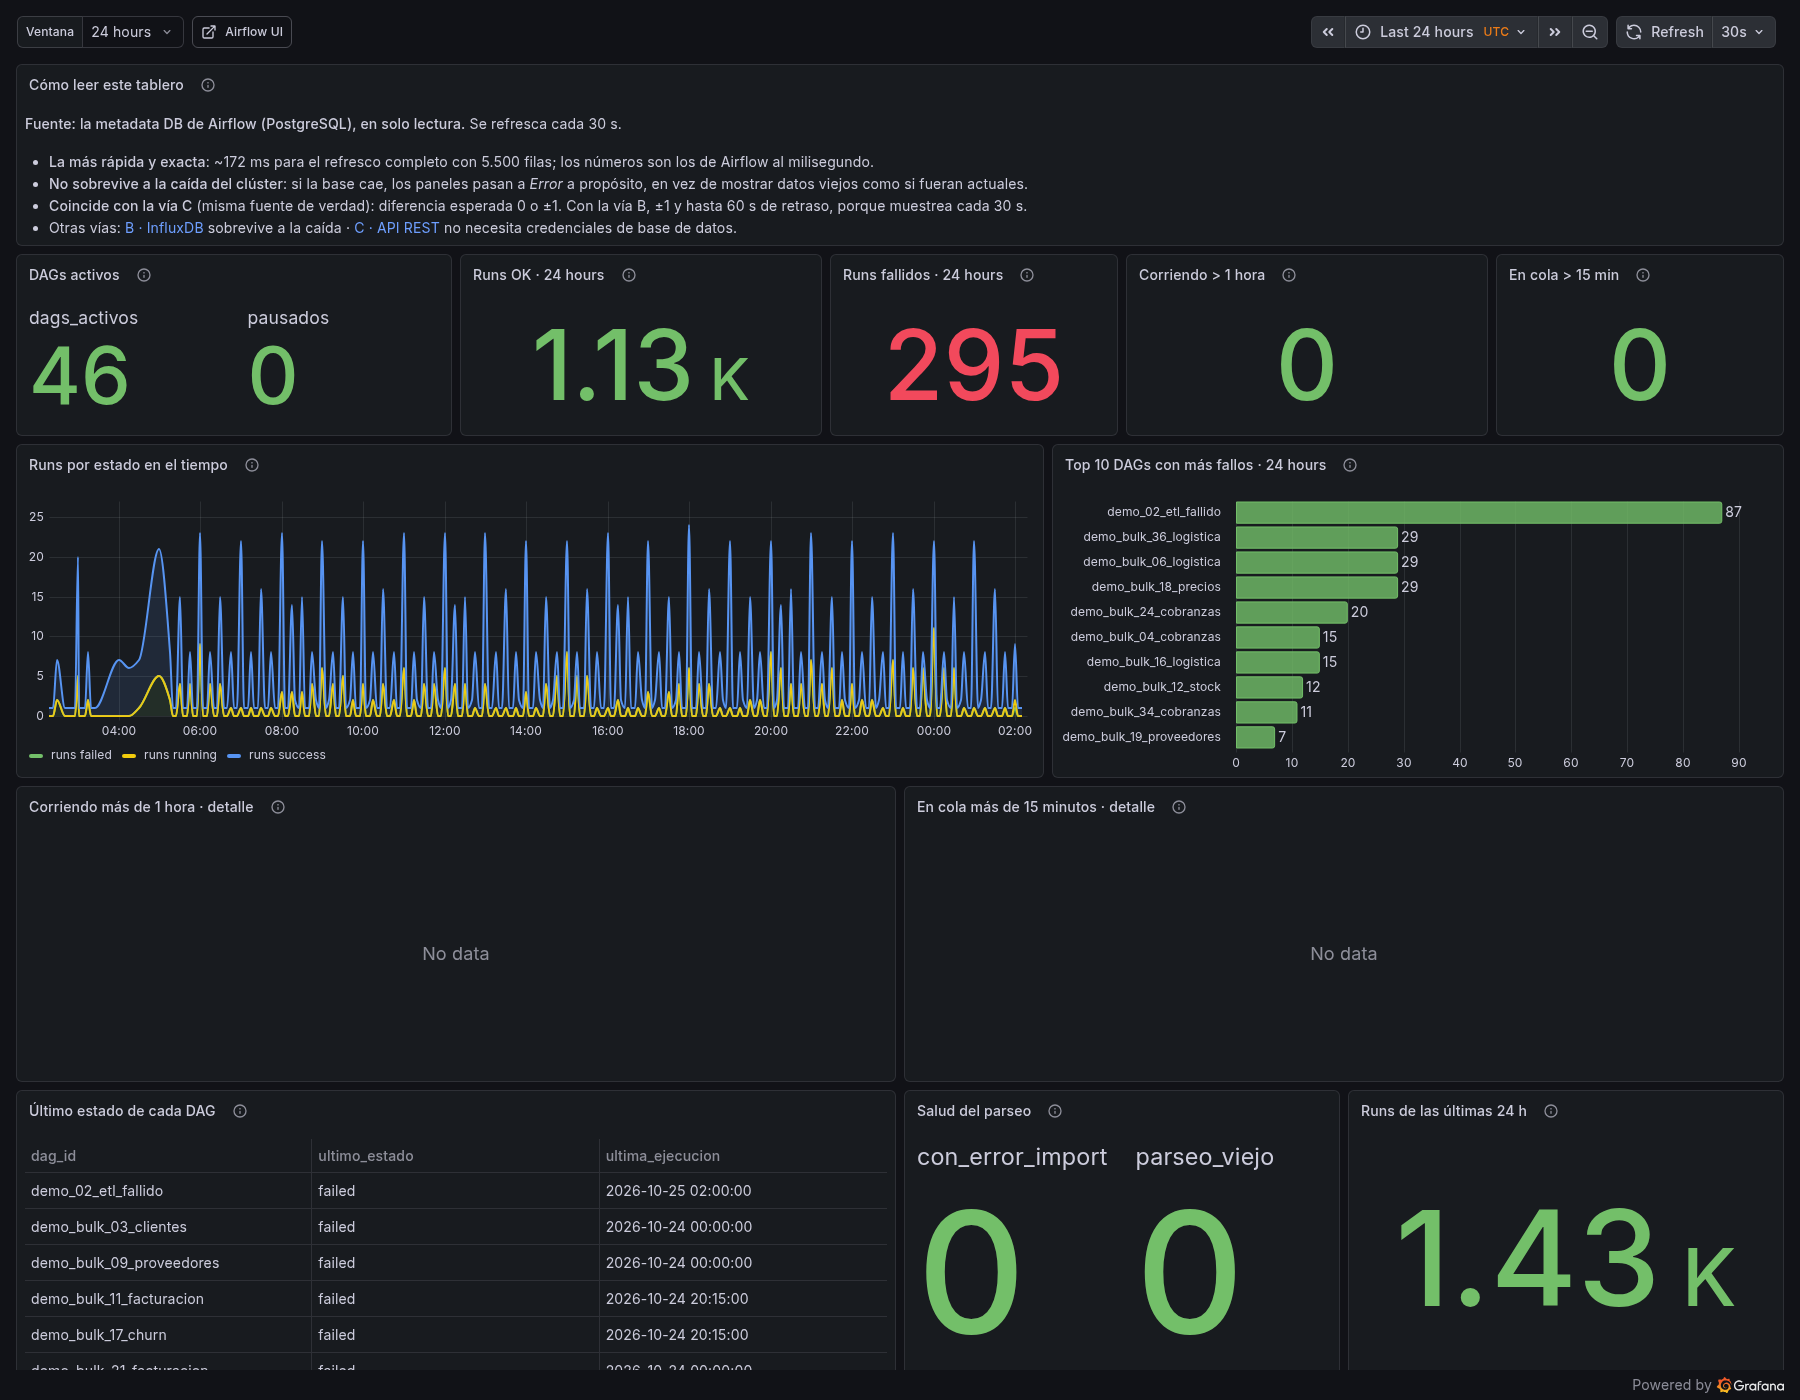
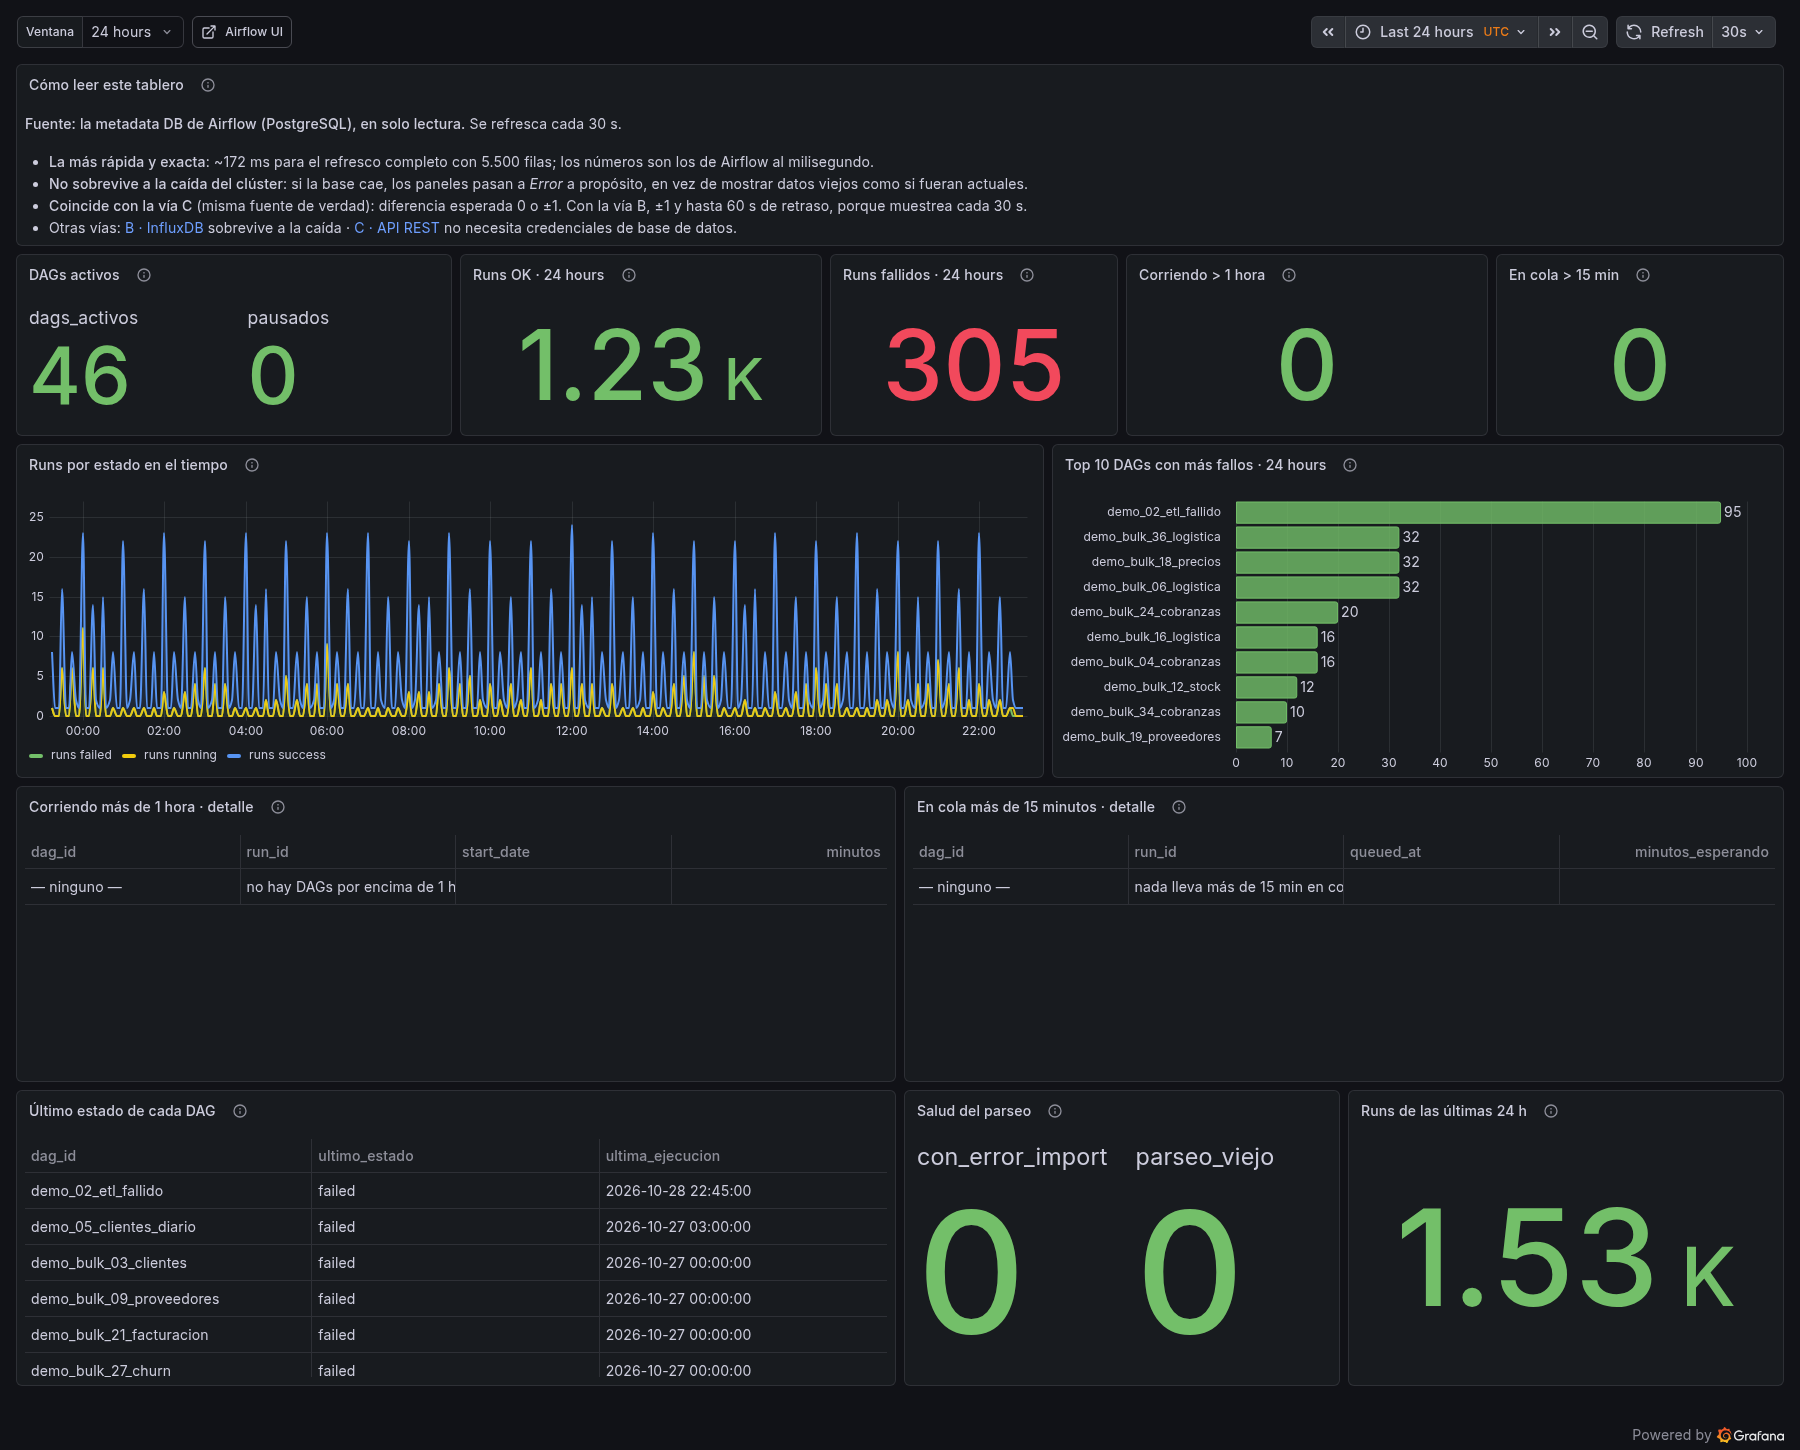
fix(via A): fila de cortesia en las tablas de detalle (0 DAGs lentos ya no parece tablero caido)

diff --git a/scripts/generate_dashboard.py b/scripts/generate_dashboard.py
@@ -67,26 +67,46 @@ ORDER BY fallos DESC
 LIMIT 10
 """,
     "tabla_lentos": """
+WITH det AS (
 SELECT dag_id,
-       run_id,
-       start_date,
-       round(extract(epoch FROM (now() - start_date)) / 60)::int AS minutos
+   run_id,
+   start_date,
+   round(extract(epoch FROM (now() - start_date)) / 60)::int AS minutos
 FROM dag_run
 WHERE state = 'running'
-  AND start_date < now() - interval '1 hour'
+AND start_date < now() - interval '1 hour'
 ORDER BY start_date
 LIMIT 50
+)
+-- Fila de cortesía: si no hay DAGs lentos, el panel dice que todo está bien
+-- en vez de mostrar "No data", que parece un tablero roto.
+SELECT det.* FROM det
+UNION ALL
+SELECT '— ninguno —'::text,
+'no hay DAGs por encima de 1 hora'::text,
+NULL::timestamptz,
+NULL::int
+WHERE NOT EXISTS (SELECT 1 FROM det)
 """,
     "tabla_cola": """
+WITH det AS (
 SELECT dag_id,
-       run_id,
-       queued_at,
-       round(extract(epoch FROM (now() - queued_at)) / 60)::int AS minutos_esperando
+   run_id,
+   queued_at,
+   round(extract(epoch FROM (now() - queued_at)) / 60)::int AS minutos_esperando
 FROM dag_run
 WHERE state = 'queued'
-  AND queued_at < now() - interval '15 minutes'
+AND queued_at < now() - interval '15 minutes'
 ORDER BY queued_at
 LIMIT 50
+)
+SELECT det.* FROM det
+UNION ALL
+SELECT '— ninguno —'::text,
+'nada lleva más de 15 min en cola'::text,
+NULL::timestamptz,
+NULL::int
+WHERE NOT EXISTS (SELECT 1 FROM det)
 """,
     "ultimo_estado": """
 WITH ultimo AS (
